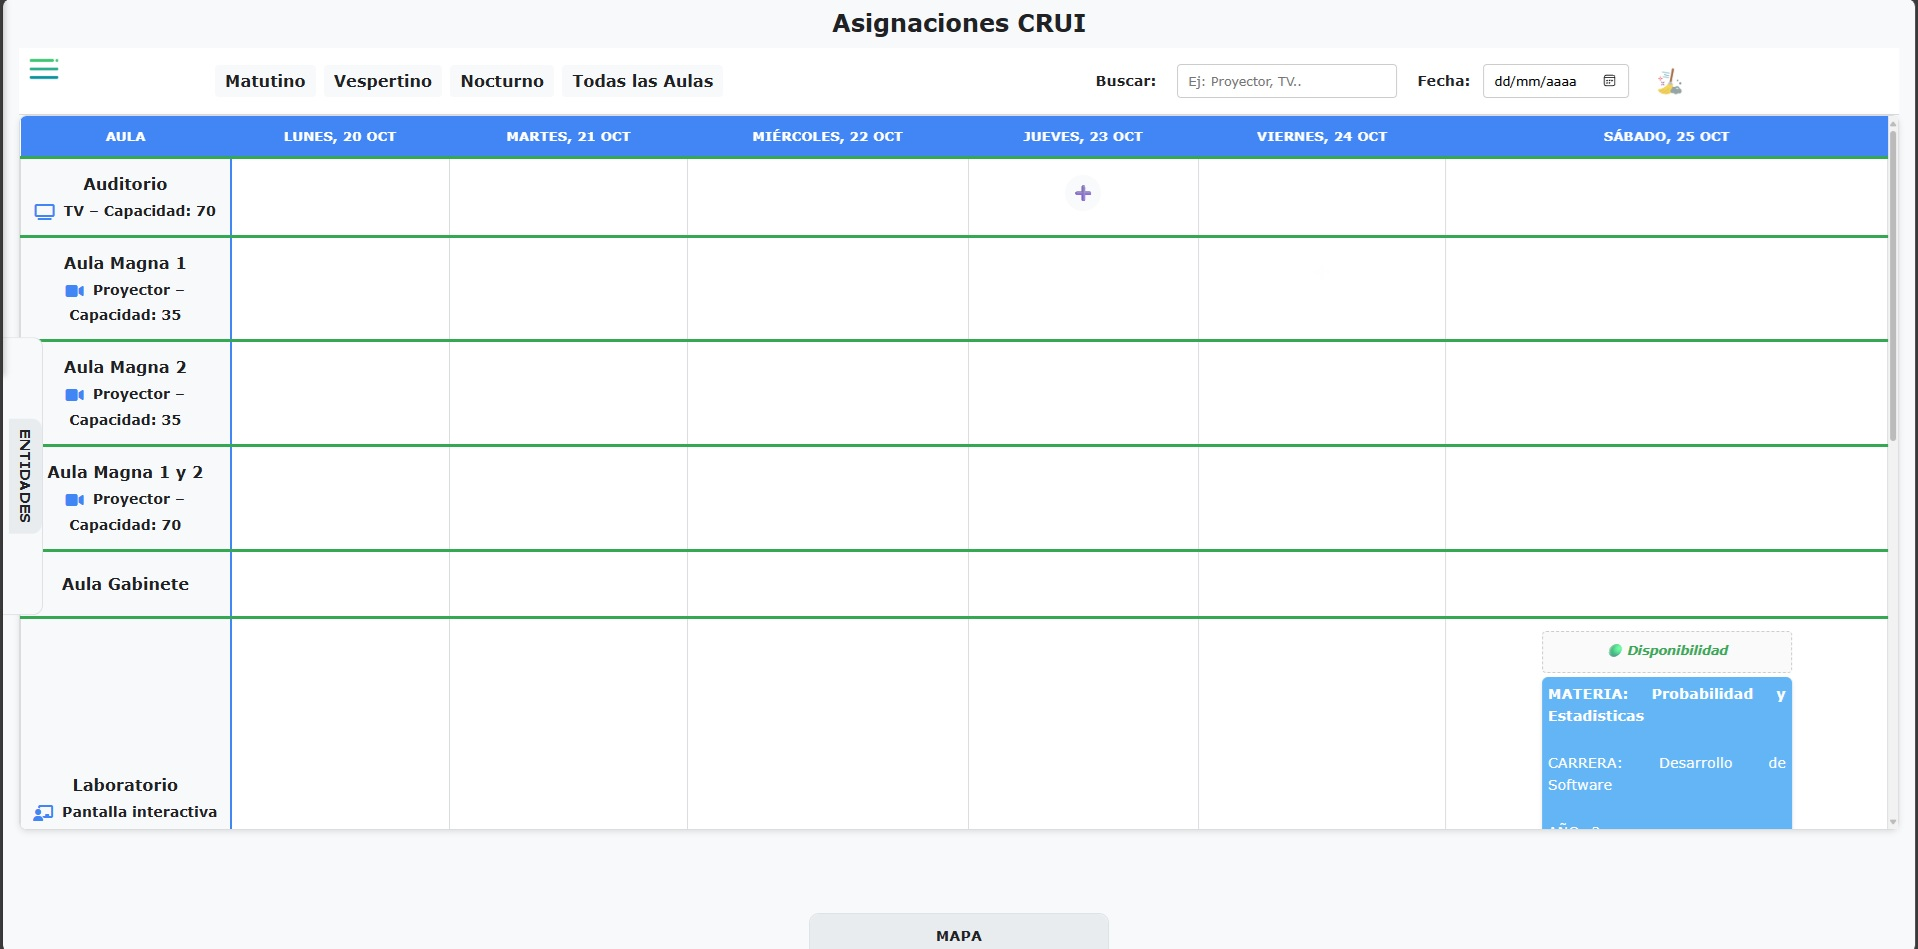
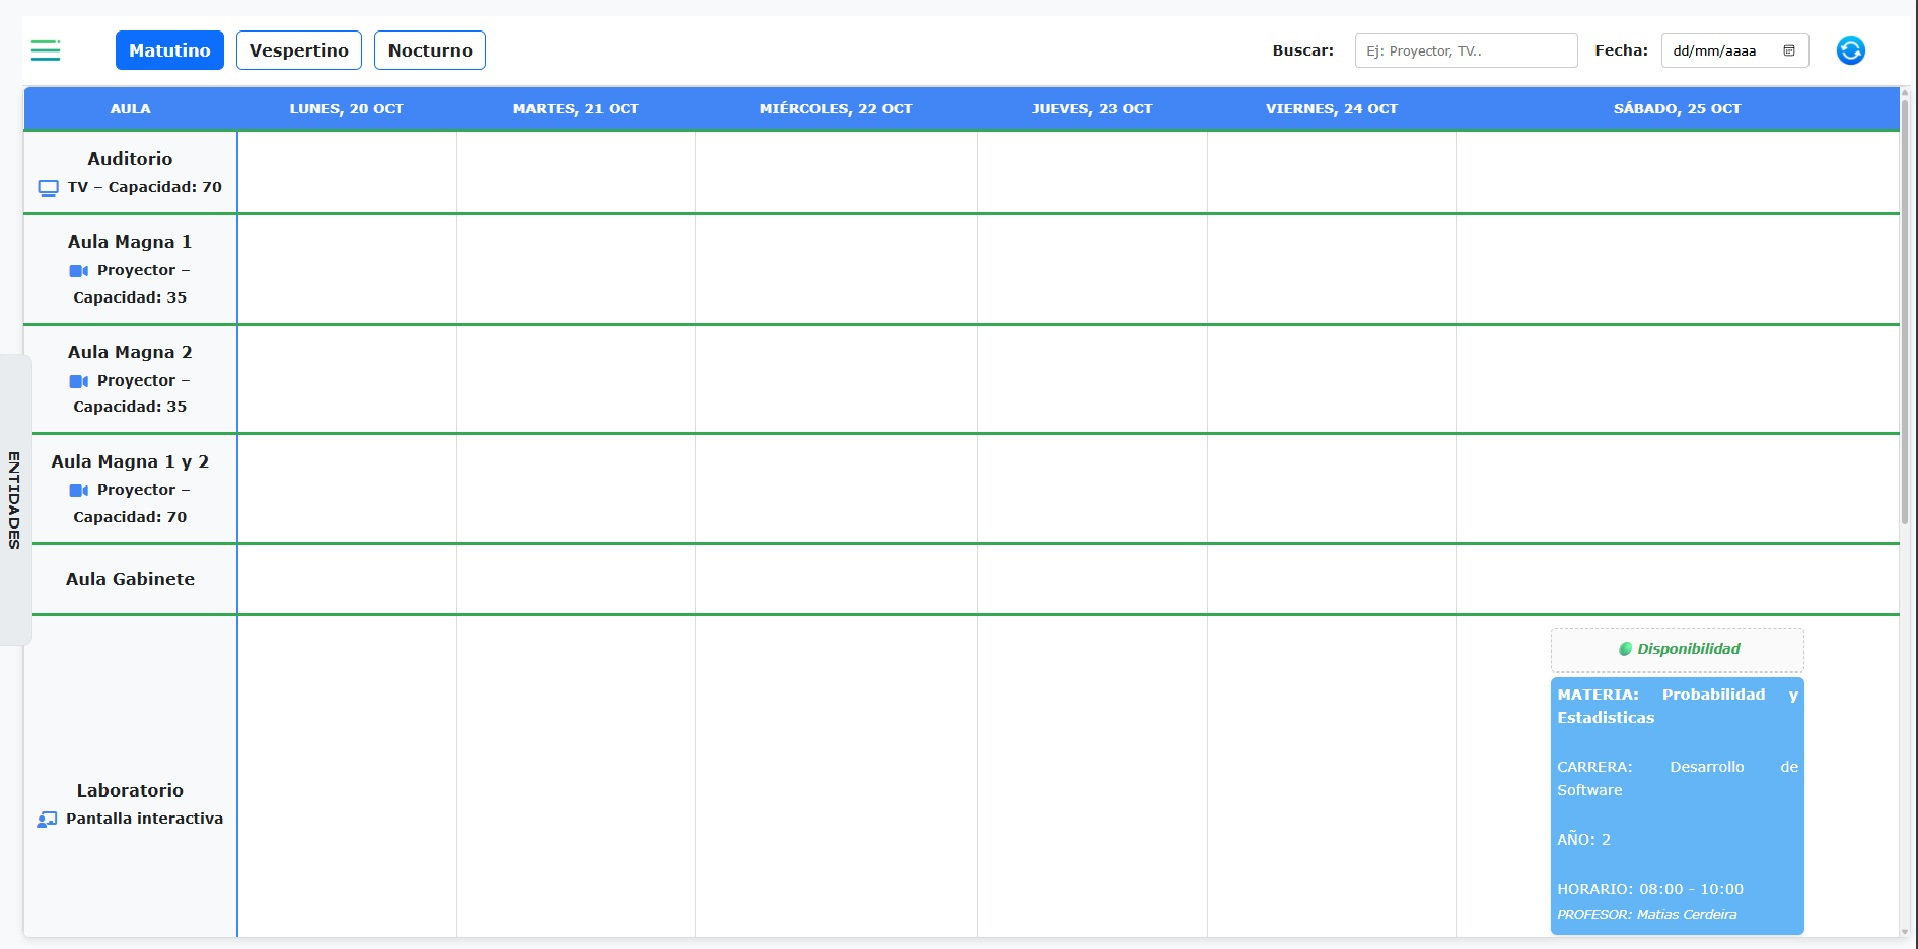
prueba

diff --git a/css/grilla.css b/css/grilla.css
@@ -246,3 +246,63 @@
   display: block;
   margin-bottom: var(--spacing-xxs);
 }
+
+/* 📱 Media Query para pantallas pequeñas */
+@media (max-width: 768px) {
+  /*  GRID RESPONSIVE */
+  .grid-table thead {
+    display: none; /* Ocultar encabezado original */
+  }
+
+  .grid-table, .grid-table tbody, .grid-table tr, .grid-table td {
+    display: block;
+    width: 100%;
+  }
+
+  .grid-table tr {
+    margin-bottom: 15px;
+    border: 1px solid #ccc;
+    background-color: #f9f9f9;
+  }
+
+  .grid-table td {
+    text-align: right;
+    padding-left: 50%;
+    position: relative;
+    border: none;
+    border-bottom: 1px solid #eee;
+  }
+
+  .grid-table td:before {
+    content: attr(data-label);
+    position: absolute;
+    left: 10px;
+    width: calc(50% - 20px);
+    padding-right: 10px;
+    white-space: nowrap;
+    text-align: left;
+    font-weight: bold;
+  }
+
+  /* Desactivar sticky para la primera columna */
+  .grid-table td:first-child {
+    position: static;
+    background-color: transparent;
+    font-weight: normal;
+    font-size: var(--font-size-normal);
+    text-align: right;
+    border-right: none;
+  }
+
+  .grid-table td:first-child:before {
+    content: "Aula"; /* O el texto que corresponda */
+  }
+  
+  .disponible-wrapper {
+    width: 100%;
+  }
+  
+  .asignacion {
+    max-width: 100%;
+  }
+}

diff --git a/js/grilla.render.js b/js/grilla.render.js
@@ -133,6 +133,7 @@ function renderGrillaSafe(destino, turnoSeleccionado, datos, aulaIdFiltrada, tar
 
     if (!ocultarColumnaAula) {
       const tdAula = document.createElement('td');
+      tdAula.setAttribute('data-label', 'Aula');
       if (mostrarNombreAula) {
         const strong = document.createElement('strong');
         strong.textContent = aula.nombre;
@@ -162,6 +163,7 @@ function renderGrillaSafe(destino, turnoSeleccionado, datos, aulaIdFiltrada, tar
 
     fechasUnicas.forEach(fecha => {
        const td = document.createElement('td');
+      td.setAttribute('data-label', formatearFecha(fecha));
   const aulaId = Number(aula.aula_id || aula.id);
   const asignacionesFecha = grid[aulaId]?.[fecha] || [];
 
